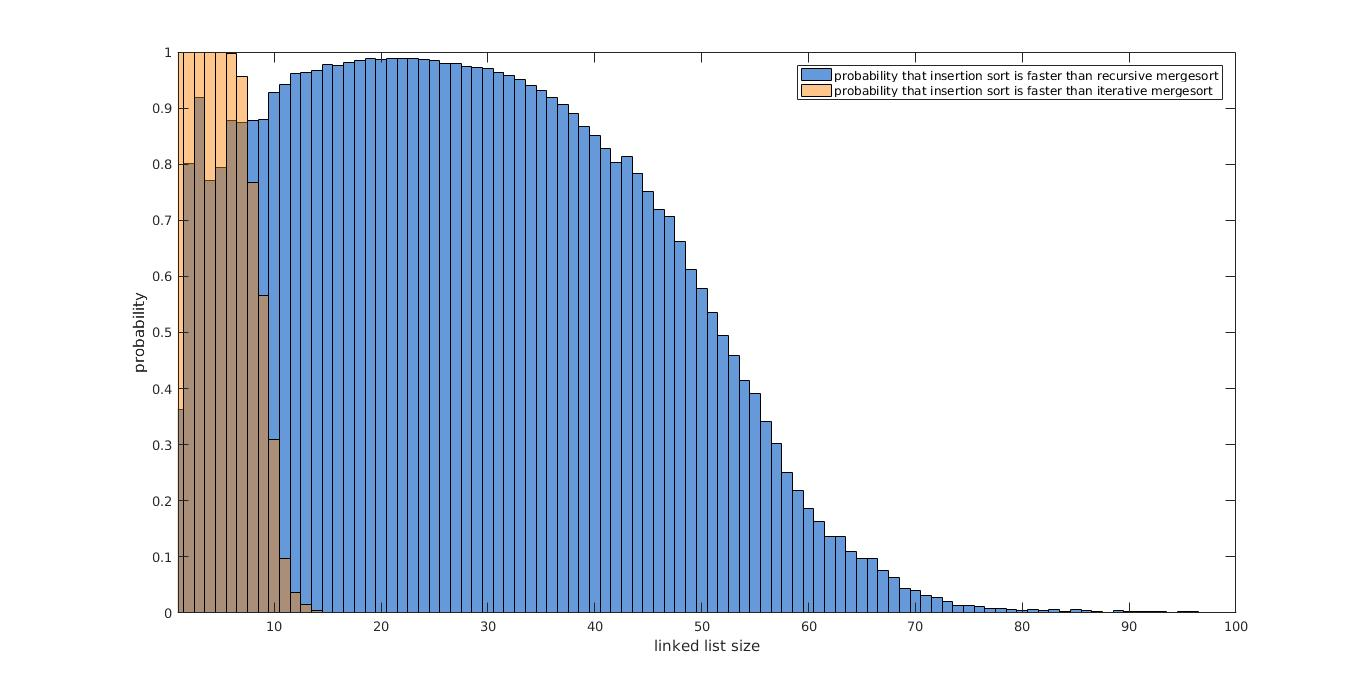
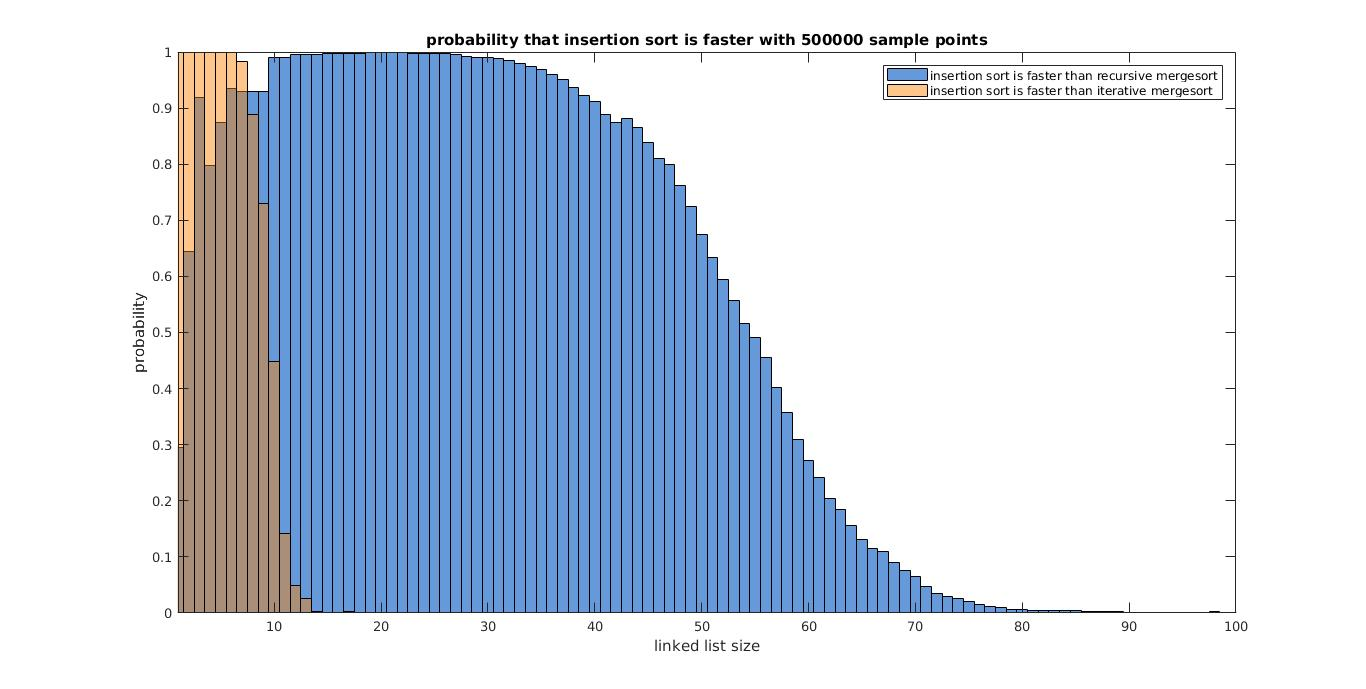
finishing Experiment2 add figures (no confidence interval for now)

diff --git a/Linked Lists/Probability Proposal/Experiment2.cpp b/Linked Lists/Probability Proposal/Experiment2.cpp
@@ -1,0 +1,30 @@
+#include <iostream>
+#include <fstream>
+
+#include "./../SinglyLList.h"
+
+int main()
+{
+	const int total_iterations = 2500;
+	const int list_size = 10000;
+	std::ofstream runTime;
+	runTime.open("./Data and Plot/Experiment2_data.out");
+
+	for (int run_size = 1; run_size <= 100; ++run_size) {
+		for (int times = 1; times <= total_iterations; ++times) {
+			SinglyLList randList(list_size);
+			
+			auto start_time = std::clock();
+			randList.timSort(run_size);
+			double duration = 1000. * (std::clock() - start_time) / CLOCKS_PER_SEC;
+
+			runTime << duration << " ";
+		}
+		runTime << std::endl;
+
+		std::cout << "current : " << run_size << std::endl;
+	}
+
+	runTime.close();
+	return 0;
+}

diff --git a/Linked Lists/Probability Proposal/Experiment1.cpp b/Linked Lists/Probability Proposal/Experiment1.cpp
@@ -6,7 +6,7 @@
 
 int main()
 {
-	const int total_iterations = 100000;
+	const int total_iterations = 500000;
 	std::ofstream probability1;
 	std::ofstream probability2;
 	probability1.open("./Data and Plot/Experiment1_data_1.out");
